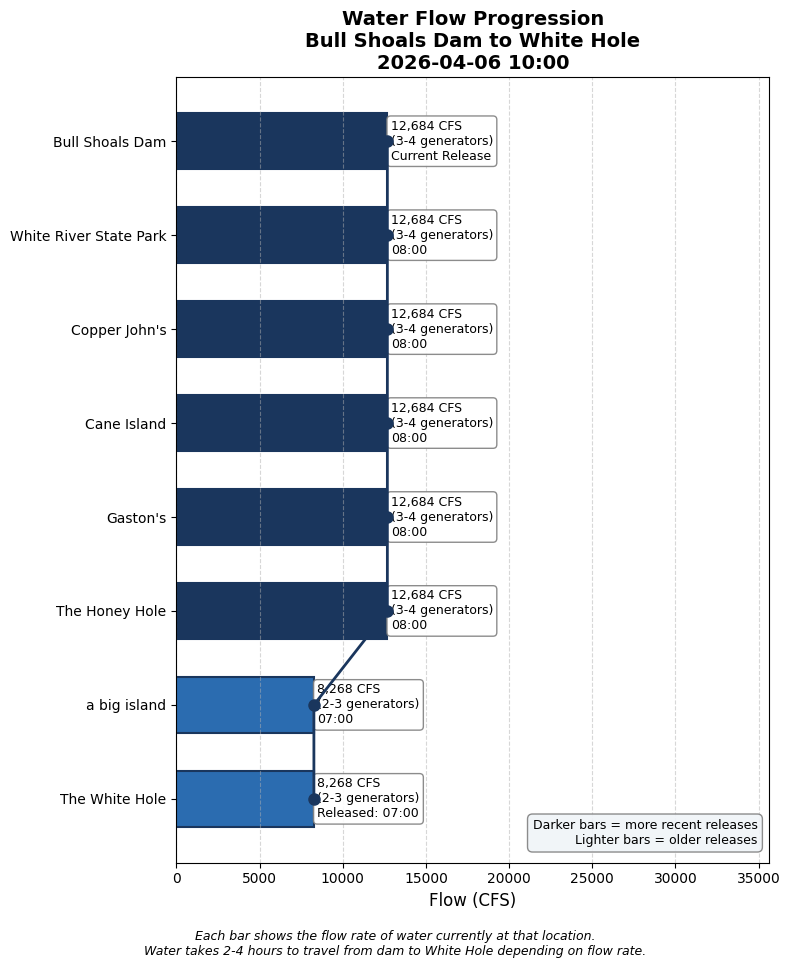
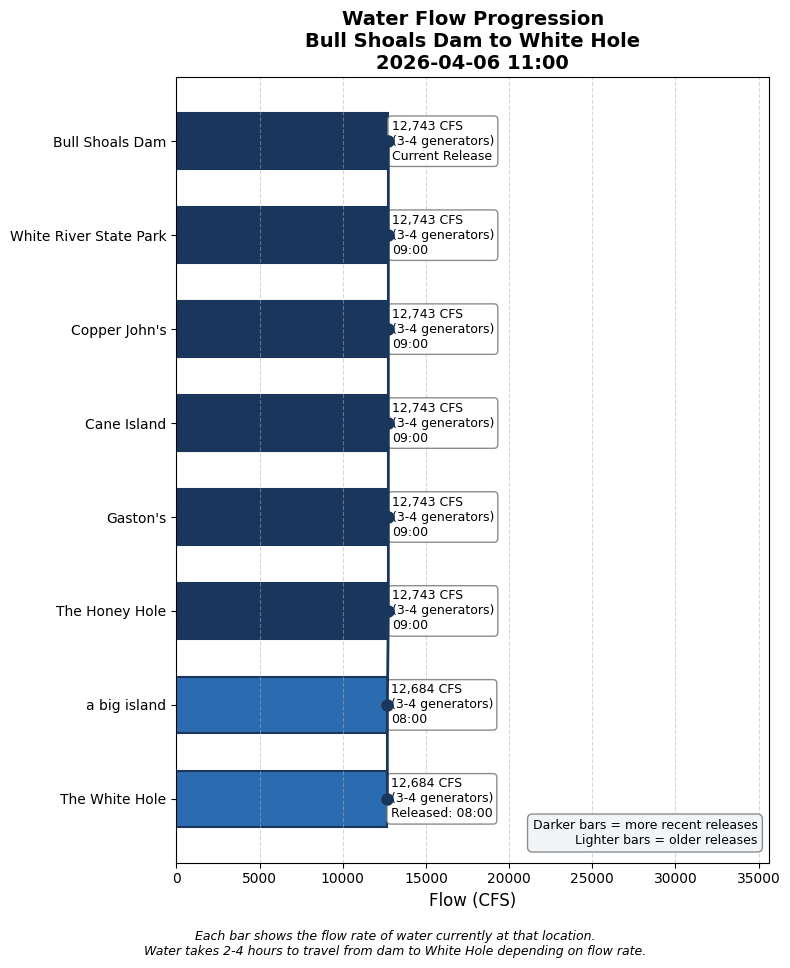
Update water conditions 2026-04-06 11:00

Changed region(s): [[0.3949, 0.124, 0.638, 0.8678], [0.4861, 0.062, 0.6987, 0.093]]

diff --git a/white_hole_conditions.html b/white_hole_conditions.html
@@ -3,7 +3,7 @@
 <head>
     <meta charset="UTF-8">
     <meta name="viewport" content="width=device-width, initial-scale=1.0">
-    <title>White Hole Conditions - 2026-04-06 10:00</title>
+    <title>White Hole Conditions - 2026-04-06 11:00</title>
     <style>
         body {
             font-family: -apple-system, BlinkMacSystemFont, 'Segoe UI', Roboto, sans-serif;
@@ -77,8 +77,8 @@
             color: #991b1b;
         }
         .pill.boating {
-            background-color: #dbeafe;
-            color: #1e40af;
+            background-color: #fee2e2;
+            color: #991b1b;
         }
         .timeline-box {
             background-color: white;
@@ -148,22 +148,22 @@
 </head>
 <body>
     <h1>White Hole Current Conditions</h1>
-    <p class="subtitle">Monday, April 06, 2026 at 10:00 AM</p>
+    <p class="subtitle">Monday, April 06, 2026 at 11:00 AM</p>
 
     <!-- HEADLINE BANNER -->
     <div class="headline-banner">
         <div class="main-status">🚫 NO WADING — Water too high for safe wading</div>
-        <div class="forecast-status">⏱ RISING WATER arriving in ~27 minutes</div>
+        <div class="forecast-status">➡ STABLE CONDITIONS expected</div>
     </div>
 
     <!-- CURRENT CONDITIONS -->
     <div class="current-conditions">
         <h3>Current Conditions at White Hole</h3>
-        <div class="flow-display">8,268 CFS</div>
-        <div class="generator-display">Equivalent to 2-3 generators</div>
+        <div class="flow-display">12,684 CFS</div>
+        <div class="generator-display">Equivalent to 3-4 generators</div>
         <div class="condition-pills">
             <span class="pill wading">No Wading</span>
-            <span class="pill boating">Ideal Boating</span>
+            <span class="pill boating">High Water</span>
         </div>
         <a href="https://www.youtube.com/channel/UCAXhb9nFnsfu367AthDrgIA/live" target="_blank" class="webcam-link" style="margin-top: 15px;">
             📹 View Live Webcam
@@ -186,20 +186,20 @@
                 <tbody>
                     
                 <tr style="background-color: #ebf8ff;">
-                    <td style="padding: 10px; font-weight: bold;">08:00</td>
-                    <td style="padding: 10px;">12,684 CFS<br><small style="color: #666;">(3-4 generators)</small></td>
-                    <td style="padding: 10px;"><span style="color: #2b6cb0;">→ Arrives ~10:28 (in 27 min)</span></td>
+                    <td style="padding: 10px; font-weight: bold;">09:00</td>
+                    <td style="padding: 10px;">12,743 CFS<br><small style="color: #666;">(3-4 generators)</small></td>
+                    <td style="padding: 10px;"><span style="color: #2b6cb0;">→ Arrives ~11:27 (in 27 min)</span></td>
                 </tr>
             
                 <tr style="background-color: #e6fffa;">
-                    <td style="padding: 10px; font-weight: bold;">07:00</td>
-                    <td style="padding: 10px;">8,268 CFS<br><small style="color: #666;">(2-3 generators)</small></td>
+                    <td style="padding: 10px; font-weight: bold;">08:00</td>
+                    <td style="padding: 10px;">12,684 CFS<br><small style="color: #666;">(3-4 generators)</small></td>
                     <td style="padding: 10px;"><span style="color: #319795; font-weight: bold;">← AT WHITE HOLE NOW</span></td>
                 </tr>
             
                 <tr style="">
-                    <td style="padding: 10px; font-weight: bold;">03:00</td>
-                    <td style="padding: 10px;">728 CFS<br><small style="color: #666;">(0-1 generators)</small></td>
+                    <td style="padding: 10px; font-weight: bold;">04:00</td>
+                    <td style="padding: 10px;">697 CFS<br><small style="color: #666;">(0-1 generators)</small></td>
                     <td style="padding: 10px;"><span style="color: #718096;">passed</span></td>
                 </tr>
             
@@ -224,9 +224,9 @@
         </summary>
         <div style="padding: 15px;">
             <ul>
-                <li>Latest dam reading: 12,684 CFS at 2026-04-06 08:00</li>
-                <li>Travel time to White Hole: 2.8 hours at current flow</li>
-                <li>White Hole conditions based on dam reading from: 2026-04-06 07:00</li>
+                <li>Latest dam reading: 12,743 CFS at 2026-04-06 09:00</li>
+                <li>Travel time to White Hole: 2.5 hours at current flow</li>
+                <li>White Hole conditions based on dam reading from: 2026-04-06 08:00</li>
             </ul>
         </div>
     </details>
@@ -248,6 +248,13 @@
                     </thead>
                     <tbody>
                         
+                <tr style="border-bottom: 1px solid #eee;">
+                    <td style="padding: 8px;">2026-04-06 09:00</td>
+                    <td style="padding: 8px; text-align: right;">12743</td>
+                    <td style="padding: 8px; text-align: right;">3.9</td>
+                    <td style="padding: 8px; text-align: right;">2.5</td>
+                </tr>
+                
                 <tr style="border-bottom: 1px solid #eee;">
                     <td style="padding: 8px;">2026-04-06 08:00</td>
                     <td style="padding: 8px; text-align: right;">12684</td>
@@ -304,13 +311,6 @@
                     <td style="padding: 8px; text-align: right;">3.7</td>
                 </tr>
                 
-                <tr style="border-bottom: 1px solid #eee;">
-                    <td style="padding: 8px;">2026-04-05 23:00</td>
-                    <td style="padding: 8px; text-align: right;">754</td>
-                    <td style="padding: 8px; text-align: right;">0.2</td>
-                    <td style="padding: 8px; text-align: right;">3.7</td>
-                </tr>
-                
                     </tbody>
                 </table>
             </div>
@@ -318,7 +318,7 @@
         
 
     <div class="timestamp">
-        Data retrieved and processed on 2026-04-06 10:00:08
+        Data retrieved and processed on 2026-04-06 11:00:07
     </div>
 </body>
 </html>
